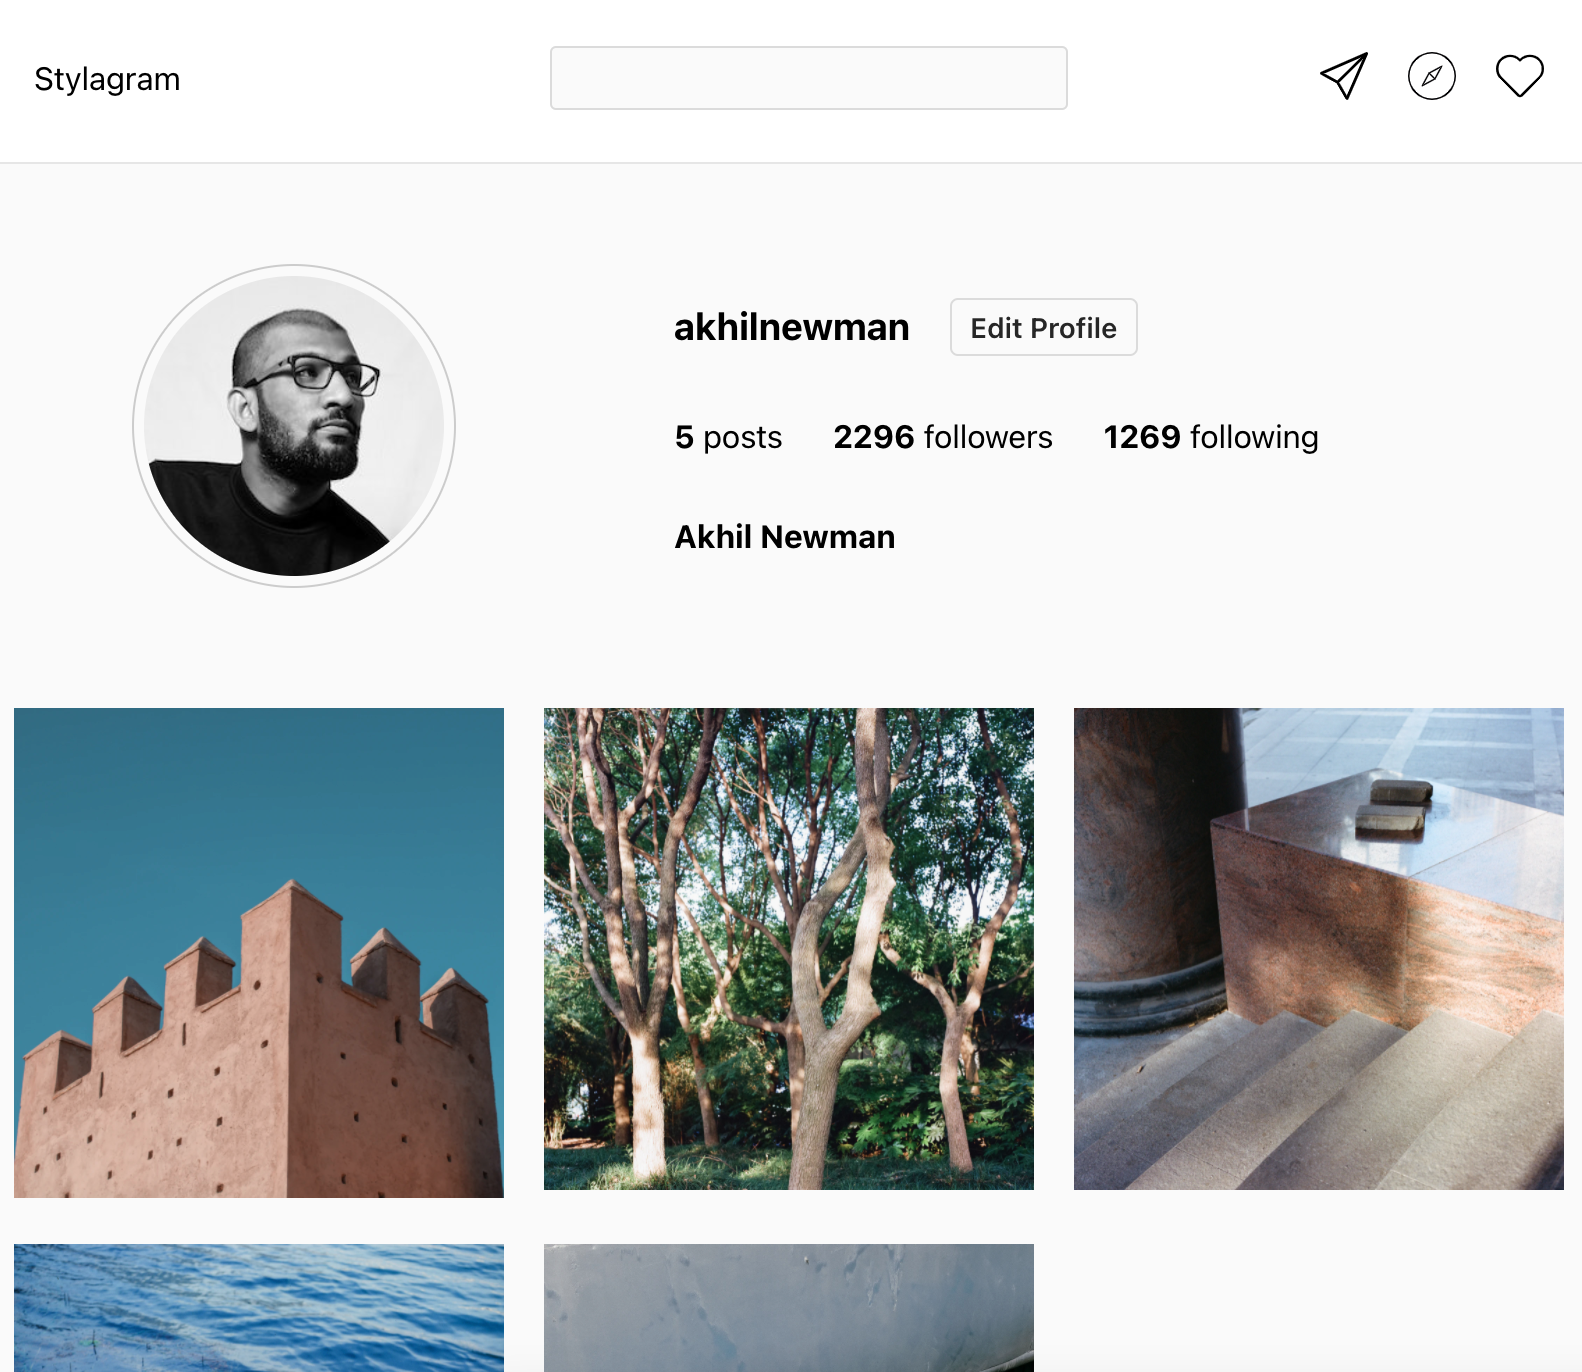
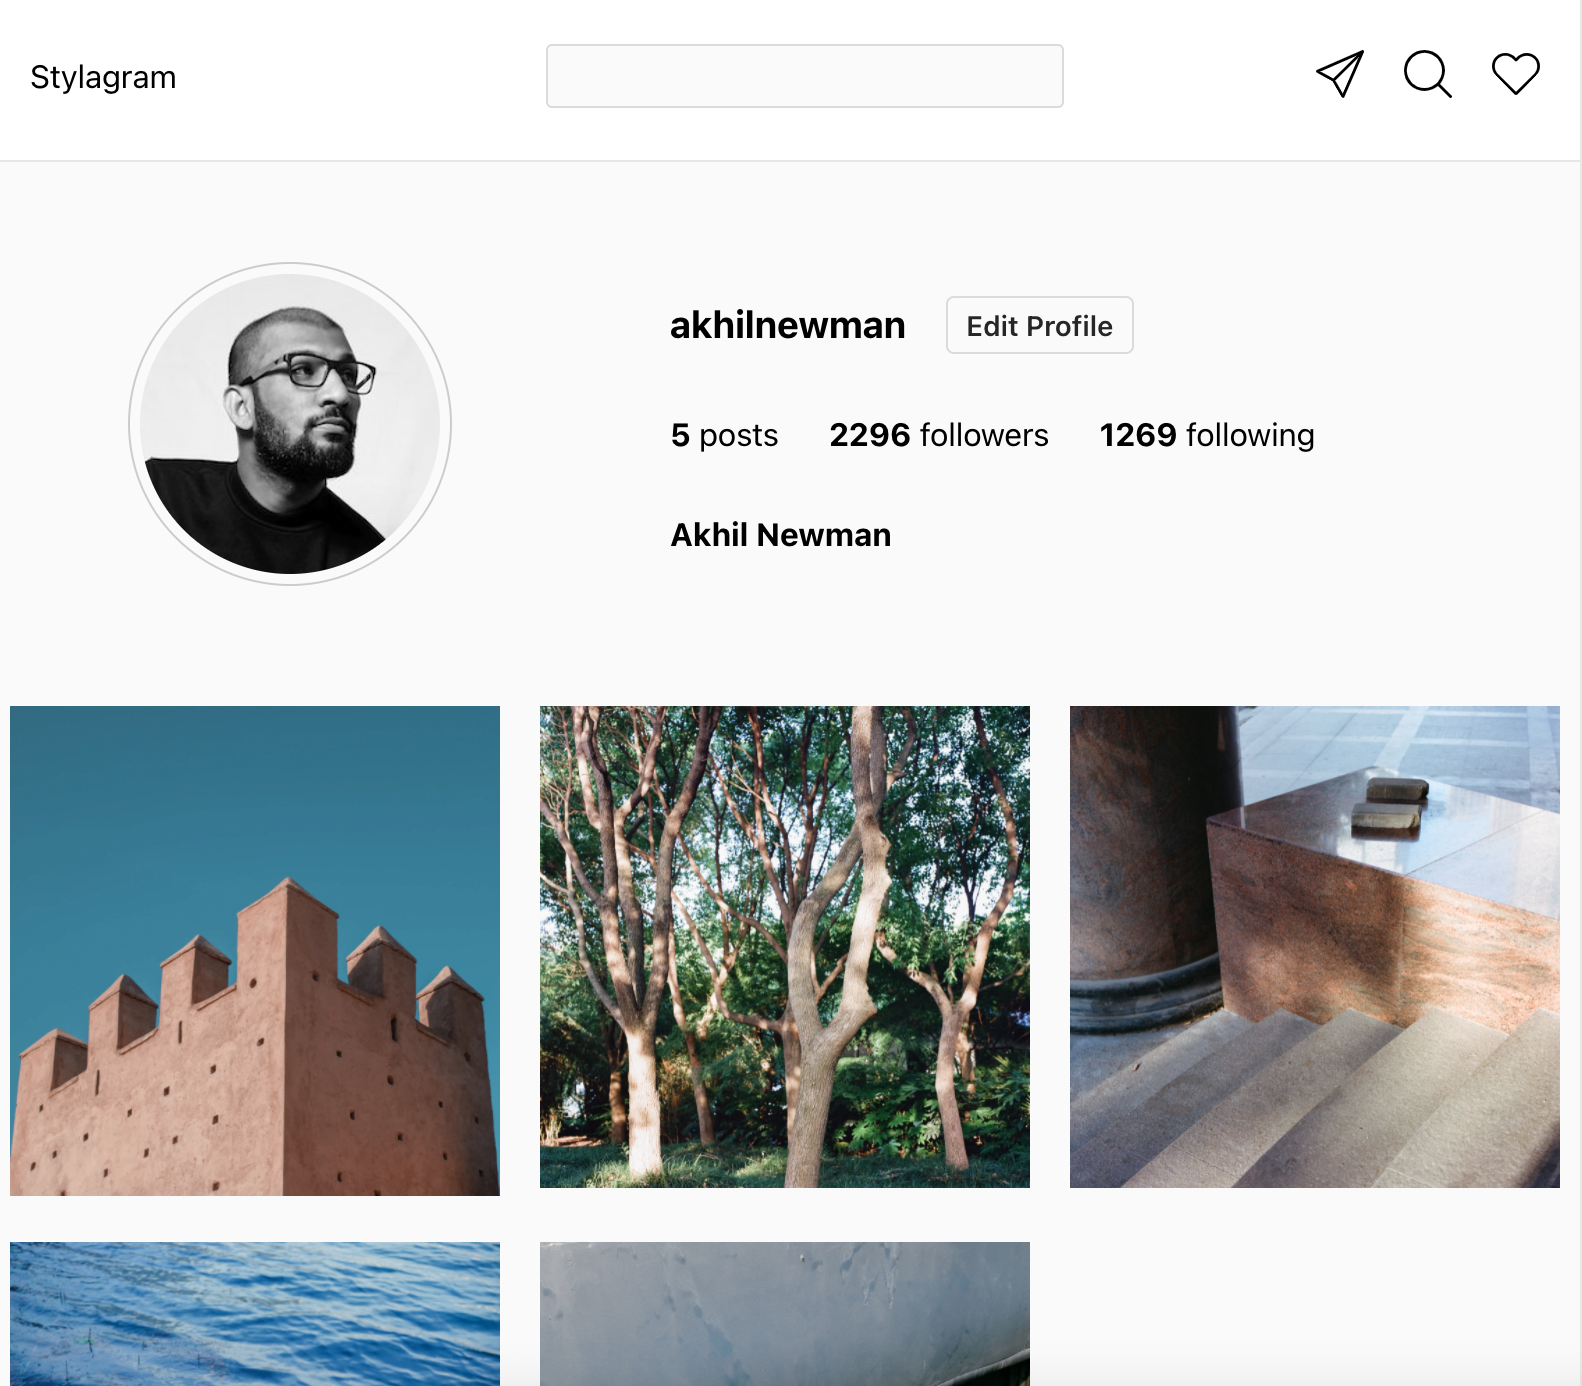
changing svg

diff --git a/src/components/Header/Header.js b/src/components/Header/Header.js
@@ -2,7 +2,7 @@ import React from 'react';
 import styled from 'styled-components';
 import { ReactComponent as Liked } from '../../svg/heart.svg';
 import { ReactComponent as Send } from '../../svg/send.svg';
-import { ReactComponent as Compass } from '../../svg/compass.svg'; 
+import { ReactComponent as Explore } from '../../svg/explore.svg'; 
 
 const Nav = styled.div`
 background-color: #fff;
@@ -73,7 +73,7 @@ function Header () {
                         <Send />
                     </MenuLink>
                     <MenuLink href="#">
-                       <Compass />
+                       <Explore />
                     </MenuLink>
                     <MenuLink href="#">
                         <Liked />
